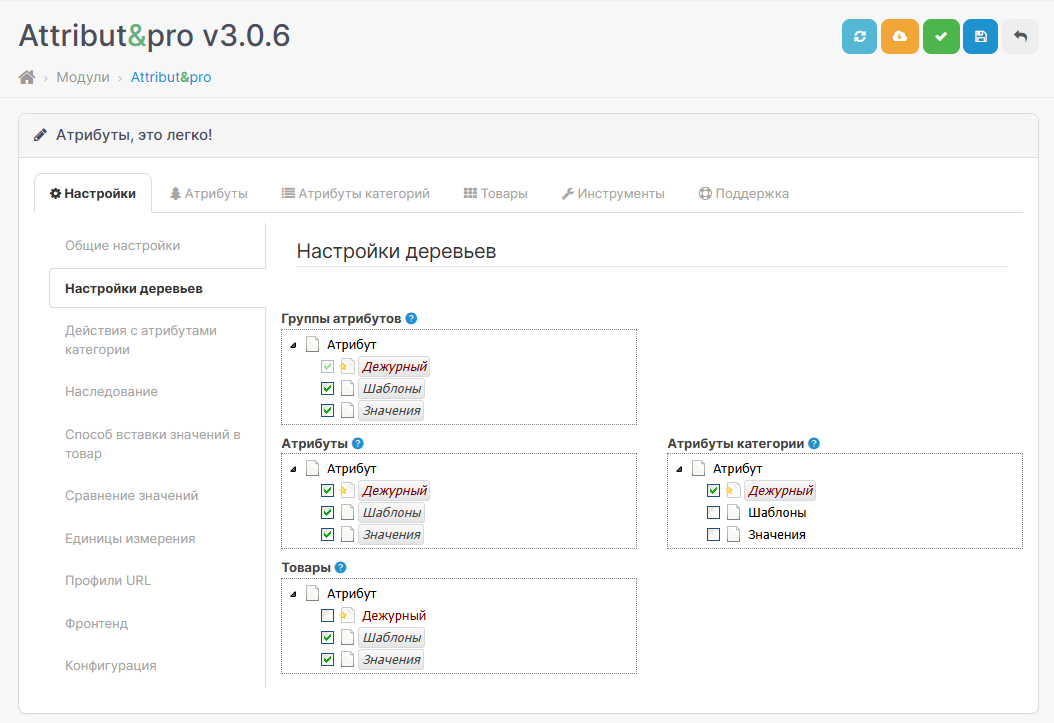
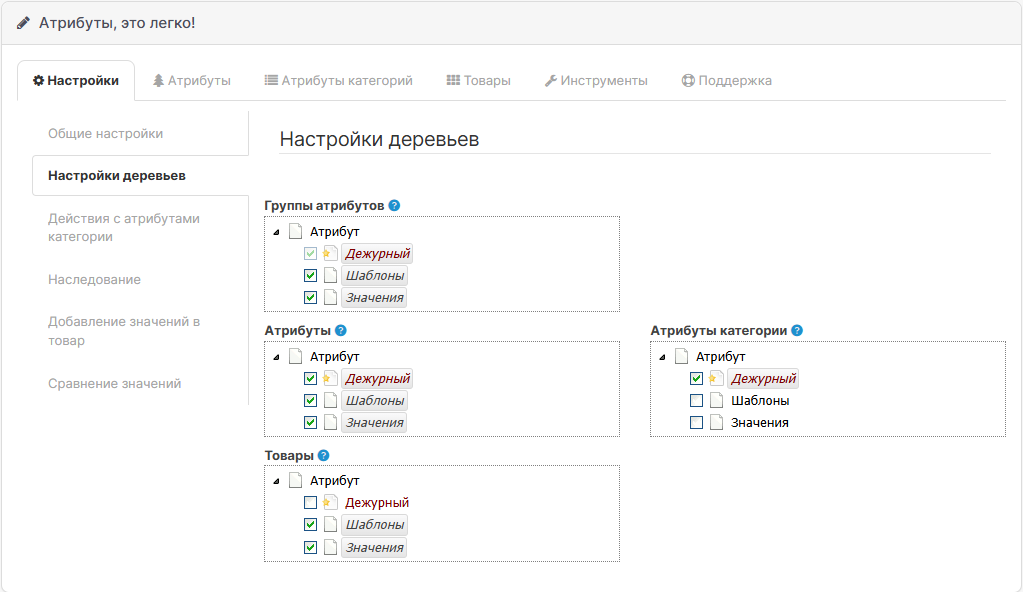
feat: Add a new documentation page comparing Attribut&pro and Attribut&co modules, and introduce new tutorial images.

diff --git a/i18n/ru/docusaurus-plugin-content-docs/current/compare-modules.md b/i18n/ru/docusaurus-plugin-content-docs/current/compare-modules.md
@@ -1,0 +1,46 @@
+---
+sidebar_position: 26
+---
+
+# Attribut&pro vs Attribut&co
+
+## Сравнительная таблица
+
+|  | **Attribut&pro** | **Attribut&co** |
+|:--|:--|:--|
+| Создание новых групп и атрибутов в одном дереве | ✓ | ✓ |
+| Редактирование групп, атрибутов, шаблонов и значений в дереве | ✓ | ✓ |
+| Фильтрация и поиск групп, атрибутов и их значений в дереве | ✓ | ✓ |
+| Drag'n'Drop и Copy-Paste технологии: копирование, смена группы, сортировка групп и атрибутов, добавление в категорию, смена категории, слияние атрибутов | ✓ | ✓ |
+| Создание атрибутов категории и управление ими | ✓ | ✓ |
+| Подстановка "дежурного шаблона" при добавлении атрибута в товар или категорию. Управление способом добавления в товар | ✓ | ✓ |
+| Оперативный просмотр товаров, отфильтрованных по атрибуту или значению | ✓ | ✓ |
+| Поддержка одновременной работы с несколькими языками. Клонирование атрибутов, групп или значений с одного языка на другой | ✓ | ✓ |
+| Поиск и удаление пустых значений атрибутов | ✓ | ✓ |
+| Удаление ссылок на несуществующие атрибуты | ✓ | ✓ |
+| Дефрагментация атрибутов и подготовка группы парсинга | ✓ | ✓ |
+| Удаление атрибутов, не связанных ни с одним товаром | ✓ | ✓ |
+| Объединение дублей атрибутов без потери связей | ✓ | ✓ |
+| Автоматическое формирование атрибутов категорий| ✓ | ✓ |
+| Пакетная замена разделителя значений атрибута | ✓ | ✓ |
+| Смена регистра первой буквы у групп, атрибутов и их значений| ✓ | ✓ |
+| Создание фильтра на основе имеющихся атрибутов и их значений | ✓ | ❌ |
+| Экспорт и импорт данных в форматах SQL и CSV | ✓ | ❌ |
+| Метаданные для каждого атрибута или значения атрибута: описание, изображение, иконка, единицы измерения, ссылка для перелинковки | ✓ | ❌ |
+| Отображение метаданных на странице товара и фильтра на фронтенде | ✓ | ❌ |
+| Прикрепление единиц измерения к названиям атрибутов или их удаление | ✓ | ❌ |
+
+## Различия интеграции с OpenCart
+
+| **Attribut&pro** | **Attribut&co** | Решение проблемы |
+|:--|:--|:--|
+| Создание собственной вкладки для формы товара | Модификация имеющейся вкладки в форме товара | Нарушение HTML разметки и конфликты с другими модификаторами |
+| Загрузка форм и формирование списков по запросу | Загрузка данных и формирование списков во время загрузки формы товара | Затраты по времени загрузки формы товара |
+| Возможность использования постраничного вывода и сортировки таблицы атрибутов | Функционал ограничен возможностями движка OpenCart | Сложности навигации по таблице при большом количестве атрибутов |
+| Запись изменений сразу в Базу Данных | Запись изменений по нажатию на кнопку сохранения | Информация не теряется при выходе без сохранения или при обновлении страницы |
+
+## Совместная работа
+
+Совместная работа **Attribut&pro** и **Attribut&co** допускается, но только для версий **Attribut&co** не ранее v3.3.2.
+
+Одновременное использование модификаторов формы товара приводит к потере всех преимуществ **Attribut&pro**, описанных в предыдущем разделе.

diff --git a/docs/compare-modules.md b/docs/compare-modules.md
@@ -1,0 +1,48 @@
+---
+sidebar_position: 26
+---
+
+# Attribut&pro vs Attribut&co
+
+## Feature Comparison Table
+
+| Feature | **Attribut&pro** | **Attribut&co** |
+|:--|:--|:--|
+| Create new groups/attributes within single tree | ✓ | ✓ |
+| Edit groups, attributes, templates, and values in-tree | ✓ | ✓ |
+| Filter/search groups, attributes, and values in-tree | ✓ | ✓ |
+| Drag'n'Drop & Copy-Paste functionality: copying, group switching, sorting, category assignment/merging | ✓ | ✓ |
+| Category attribute creation/management | ✓ | ✓ |
+| Default template substitution when adding attributes to products/categories | ✓ | ✓ |
+| Quick product preview filtered by attributes/values | ✓ | ✓ |
+| Multi-language support with cloning across languages | ✓ | ✓ |
+| Empty attribute value search/removal | ✓ | ✓ |
+| Orphaned attribute reference cleanup | ✓ | ✓ |
+| Attribute defragmentation and parsing group preparation | ✓ | ✓ |
+| Removal of unused attributes | ✓ | ✓ |
+| Duplicate attribute merging with relationship preservation | ✓ | ✓ |
+| Automatic category attribute generation | ✓ | ✓ |
+| Batch attribute value separator replacement | ✓ | ✓ |
+| First-letter case modification for groups/attributes/values | ✓ | ✓ |
+| Filter creation based on existing attributes/values | ✓ | ❌ |
+| SQL/CSV data import/export | ✓ | ❌ |
+| Metadata support: descriptions, images, icons, units, internal links | ✓ | ❌ |
+| Frontend display of metadata in product pages/filters | ✓ | ❌ |
+| Unit of measurement attachment/removal | ✓ | ❌ |
+
+## OpenCart Integration Differences
+
+| **Attribut&pro** | **Attribut&co** | Solution |
+|:--|:--|:--|
+| Dedicated product form tab | Modified existing product form tab | HTML markup conflicts with other modifiers |
+| On-demand form loading/lazy list generation | Full data loading during form initialization | Increased product form load times |
+| Pagination and custom table sorting | Limited to OpenCart engine capabilities | Navigation complexity with large attribute sets |
+| Real-time database updates | Save-button triggered updates | Prevents data loss on unsaved exits/page refreshes |
+
+## Coexistence
+
+**Attribut&pro** and **Attribut&co** can coexist when using **Attribut&co** v3.3.2 or newer. 
+
+:::warning
+Simultaneous use of product form modifiers will negate all **Attribut&pro** advantages listed above.
+:::
